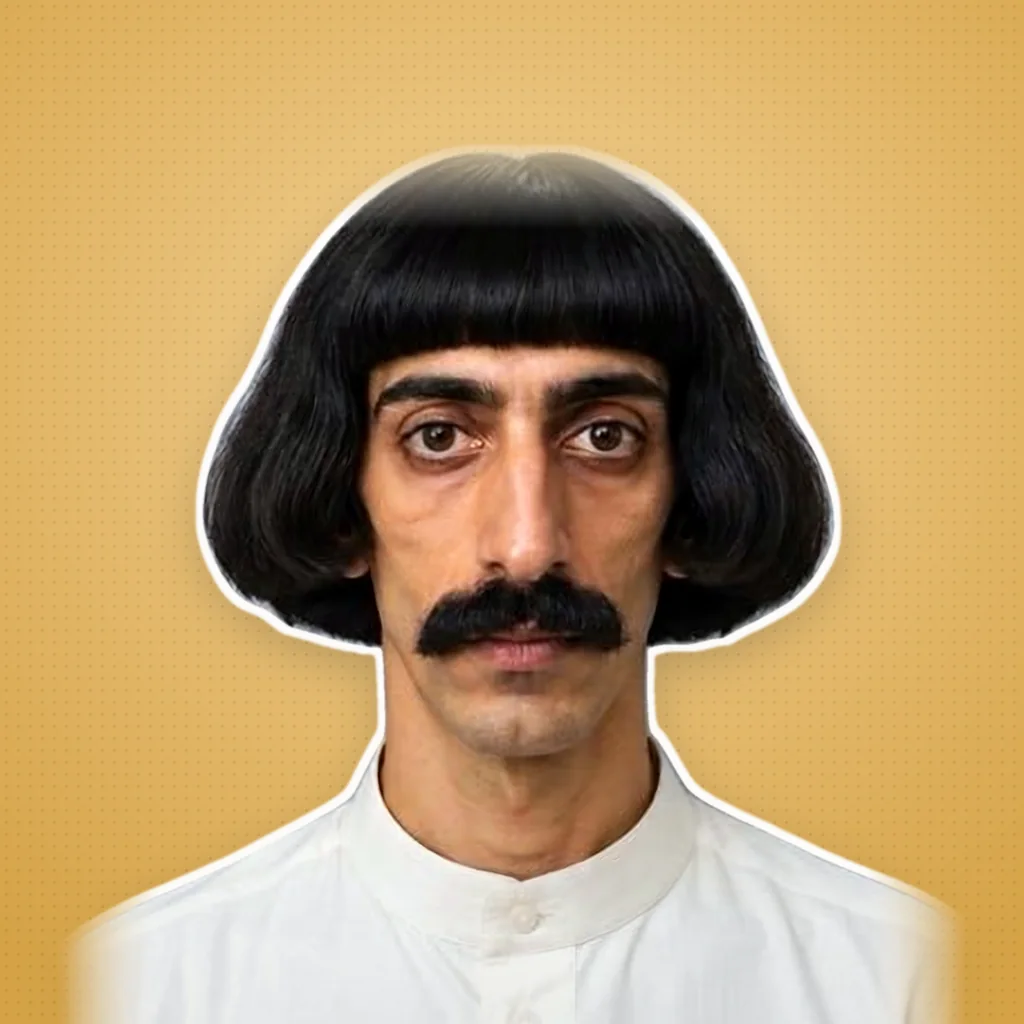
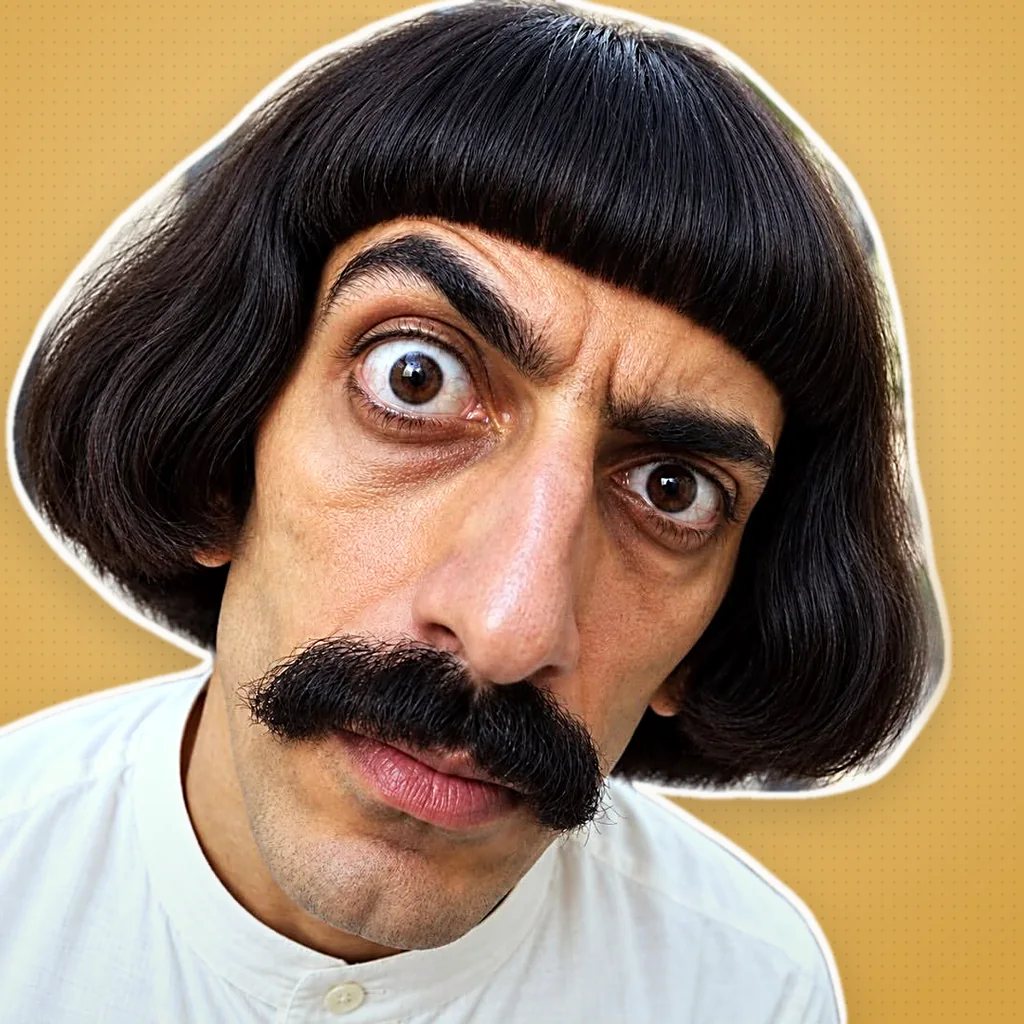
Rename the site to AI Fame Index and replace the Abu Shalab portrait
- Site name, metadata, nav, footer, README, data title and Stripe line item
  now read "AI Fame Index"; package renamed to ai-fame-index
- Abu Shalab avatar re-normalized from a higher-resolution portrait supplied
  by the site editor (1080px, no super-resolution needed); credited as an
  editor-supplied portrait

Claude-Session: https://claude.ai/code/session_01F9yQdpbMz31LLkJ8prMRBj

diff --git a/src/components/Nav.tsx b/src/components/Nav.tsx
@@ -44,10 +44,10 @@ export default function Nav({ items, asOf }: { items: SearchItem[]; asOf: string
     <>
       <header className="pointer-events-none fixed inset-x-0 top-0 z-50 px-3 pt-3 sm:px-5 sm:pt-4">
         <nav className="pointer-events-auto mx-auto flex max-w-[1440px] items-center justify-between gap-3 rounded-full border border-white/60 bg-paper/80 py-2 pl-4 pr-2 shadow-card backdrop-blur-xl">
-          <Link href="/" className="flex items-center gap-2" aria-label="AI Celebrity Index home">
+          <Link href="/" className="flex items-center gap-2" aria-label="AI Fame Index home">
             <span className="grid h-8 w-8 place-items-center rounded-full bg-ink text-sm text-[#C6F432]">★</span>
             <span className="font-display text-[15px] font-extrabold uppercase leading-none tracking-tight">
-              AI Celebrity
+              AI Fame
               <br className="sm:hidden" /> Index
             </span>
           </Link>

diff --git a/src/data/portraits.ts b/src/data/portraits.ts
@@ -54,7 +54,7 @@ export interface PortraitSpec {
   /** A normalized avatar exists in public/avatars/<slug>/. */
   avatar?: boolean;
   /** Where the avatar came from. */
-  source?: "x-avatar" | "promo-still";
+  source?: "x-avatar" | "promo-still" | "editor";
   art?: Art;
   /** How the look was established: OBSERVED in posts, or INFERRED from captions. */
   basis?: "OBSERVED" | "INFERRED";
@@ -80,7 +80,7 @@ export const portraits: Record<string, PortraitSpec> = {
     },
   },
   "jean-phil": { accent: "#6E9BD8", onAccent: "#fff", avatar: true, source: "x-avatar" },
-  "abu-shalab": { accent: "#EDB54F", avatar: true, source: "x-avatar" },
+  "abu-shalab": { accent: "#EDB54F", avatar: true, source: "editor" },
   "casper-the-italian-greyhound": {
     accent: "#9BCBB1",
     basis: "INFERRED",

diff --git a/src/components/Portrait.tsx b/src/components/Portrait.tsx
@@ -50,7 +50,8 @@ export default function Portrait({
 /** Small label explaining what the portrait is. */
 export function portraitCredit(slug: string): string {
   const spec = portraitOf(slug);
-  if (spec.avatar) return spec.source === "x-avatar" ? "Official X avatar · normalized" : "Promo still · normalized";
+  if (spec.avatar)
+    return { "x-avatar": "Official X avatar · normalized", editor: "Editor-supplied portrait · normalized", "promo-still": "Promo still · normalized" }[spec.source ?? "promo-still"];
   if (!spec.art || spec.art.kind === "unknown") return "Portrait not captured";
   return spec.basis === "OBSERVED" ? "Illustration · from observed posts" : "Illustration · inferred look";
 }

diff --git a/src/lib/submissions/stripe.ts b/src/lib/submissions/stripe.ts
@@ -23,7 +23,7 @@ export async function createCheckout(handle: string, email: string | null): Prom
     "line_items[0][quantity]": "1",
     "line_items[0][price_data][currency]": config.currency,
     "line_items[0][price_data][unit_amount]": String(config.priceCents),
-    "line_items[0][price_data][product_data][name]": `AI Celebrity Index analysis: @${handle}`,
+    "line_items[0][price_data][product_data][name]": `AI Fame Index analysis: @${handle}`,
     "line_items[0][price_data][product_data][description]":
       "Full profile analysis (Fame, Momentum, career timeline, network links, token check) and analyst review for inclusion in the index.",
     "metadata[handle]": handle,

diff --git a/src/app/layout.tsx b/src/app/layout.tsx
@@ -11,7 +11,7 @@ const sans = Inter({ subsets: ["latin"], variable: "--font-sans" });
 const mono = DM_Mono({ subsets: ["latin"], variable: "--font-mono", weight: ["400", "500"] });
 
 export const metadata: Metadata = {
-  title: { default: "AI Celebrity Index — Who owns the internet today?", template: "%s · AI Celebrity Index" },
+  title: { default: "AI Fame Index — Who owns the internet today?", template: "%s · AI Fame Index" },
   description:
     "The live index of AI celebrities: Fame, Momentum, social graph and career arcs of fictional AI influencers and synthetic personalities.",
 };

diff --git a/src/app/about/page.tsx b/src/app/about/page.tsx
@@ -26,7 +26,7 @@ export default function AboutPage() {
           </p>
           <p className="mt-5">
             There was no canonical place to see who is big, who is growing, who is hot right now, and who is connected to who.
-            The AI Celebrity Index is that place: a ranking, a set of profiles, and a map of the universe, built from public
+            The AI Fame Index is that place: a ranking, a set of profiles, and a map of the universe, built from public
             Instagram data and checked by hand.
           </p>
           <p className="mt-5">

diff --git a/src/app/methodology/page.tsx b/src/app/methodology/page.tsx
@@ -42,7 +42,7 @@ export default function MethodologyPage() {
       <PageHead
         kicker={`Index methodology · ${longDate(AS_OF)}`}
         title="How we score"
-        intro="The AI Celebrity Index is an index methodology, not objective truth. Weights are choices. Here is every one of them, in plain language."
+        intro="The AI Fame Index is an index methodology, not objective truth. Weights are choices. Here is every one of them, in plain language."
       />
       <section className="wrap grid gap-4 lg:grid-cols-3">
         {blocks.map((b) => (

diff --git a/src/components/Footer.tsx b/src/components/Footer.tsx
@@ -8,7 +8,7 @@ export default function Footer({ asOf }: { asOf: string }) {
         <div className="flex flex-col justify-between gap-10 md:flex-row md:items-end">
           <div>
             <p className="display text-[13vw] leading-[0.82] md:text-[7.5vw]">
-              AI Celebrity
+              AI Fame
               <br />
               Index<span className="text-[#C6F432]">★</span>
             </p>

diff --git a/src/app/c/[slug]/page.tsx b/src/app/c/[slug]/page.tsx
@@ -38,7 +38,7 @@ export async function generateMetadata({ params }: { params: Promise<{ slug: str
   if (!c) return {};
   return {
     title: `${c.name} (@${c.handle})`,
-    description: c.why ?? `${c.name} on the AI Celebrity Index.`,
+    description: c.why ?? `${c.name} on the AI Fame Index.`,
   };
 }
 

diff --git a/scripts/build_data.py b/scripts/build_data.py
@@ -961,7 +961,7 @@ def build(xlsx):
 
     data = {
         "meta": {
-            "title": "AI Celebrity Index",
+            "title": "AI Fame Index",
             "asOf": asof,
             "generatedFrom": Path(xlsx).name,
             "counts": {

diff --git a/README.md b/README.md
@@ -1,4 +1,4 @@
-# AI Celebrity Index
+# AI Fame Index
 
 **Who owns the internet today?** A live cultural index of fictional AI influencers, synthetic celebrities and internet-native AI characters, with Fame and Momentum scores, a social graph, career arcs, live status, identity labels and an optional token layer.
 
